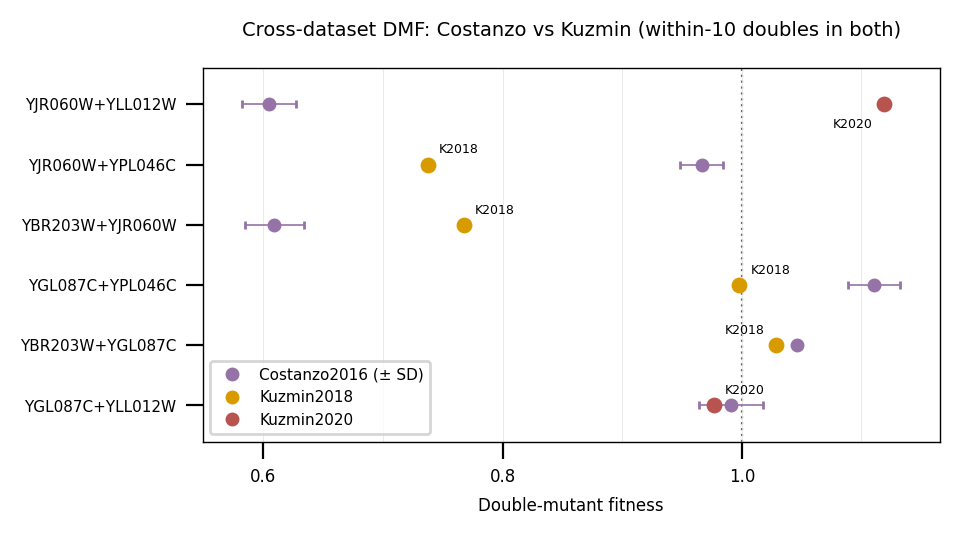
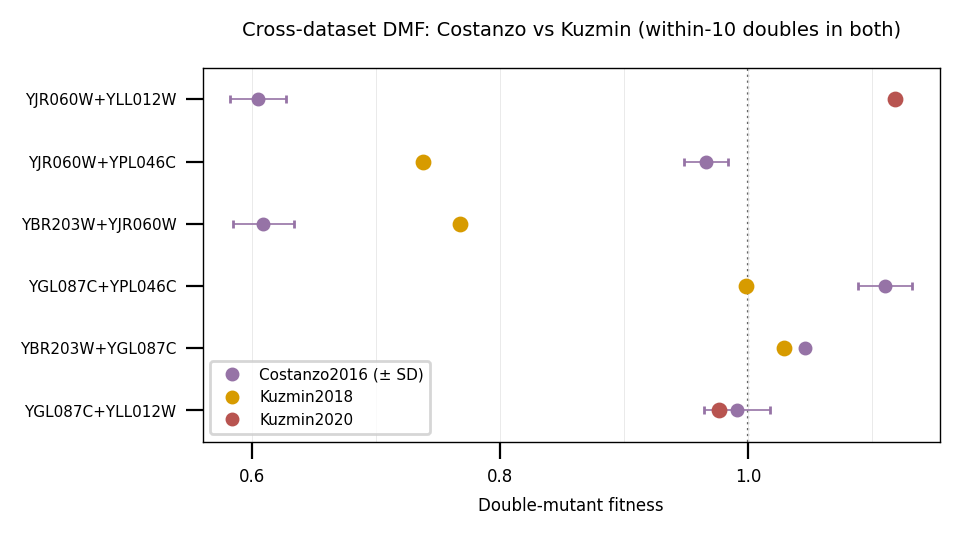
fix(010): drop redundant K2018/K2020 point labels on cross-dataset (color denotes them)

diff --git a/experiments/010-kuzmin-tmi/scripts/construction_validation_doubles.py b/experiments/010-kuzmin-tmi/scripts/construction_validation_doubles.py
@@ -251,17 +251,11 @@ def plot_cross_dataset(df: pd.DataFrame) -> None:
     #        (Costanzo = COLOR_COV purple; three-color scheme = first three palette colors)
     fig, ax = plt.subplots(figsize=(mm_to_in(PANEL_WIDTHS_MM["wide"]), mm_to_in(65)),
                            layout="constrained")
-    top = len(d) - 1
     for i, r in d.iterrows():
         ax.errorbar(r.DmfCostanzo2016_fitness, i, xerr=r.DmfCostanzo2016_std, fmt="o",
                     ms=4, elinewidth=0.6, capsize=1.5, color=COLOR_COV, zorder=3)
-        ax.scatter(r.kuzmin, i, s=22, color=kcolor[r.ksrc], zorder=3)
-        # keep the label inside the frame: high-x -> left of the dot; top row -> below
-        dx, ha = (-4, "right") if r.kuzmin >= 1.0 else (4, "left")
-        dy, va = (-5, "top") if i == top else (3, "bottom")
-        ax.annotate(r.ksrc, (r.kuzmin, i), textcoords="offset points",
-                    xytext=(dx, dy), ha=ha, va=va, fontsize=4.5, color="black")
-    ax.margins(x=0.06, y=0.12)
+        ax.scatter(r.kuzmin, i, s=22, color=kcolor[r.ksrc], zorder=3)  # color denotes K2018/K2020
+    ax.margins(x=0.04, y=0.10)
     ax.axvline(1.0, color="0.4", ls=":", lw=0.8, zorder=0)
     ax.set_yticks(range(len(d)))
     ax.set_yticklabels([f"{r.gene1}+{r.gene2}" for _, r in d.iterrows()], fontsize=5.5)